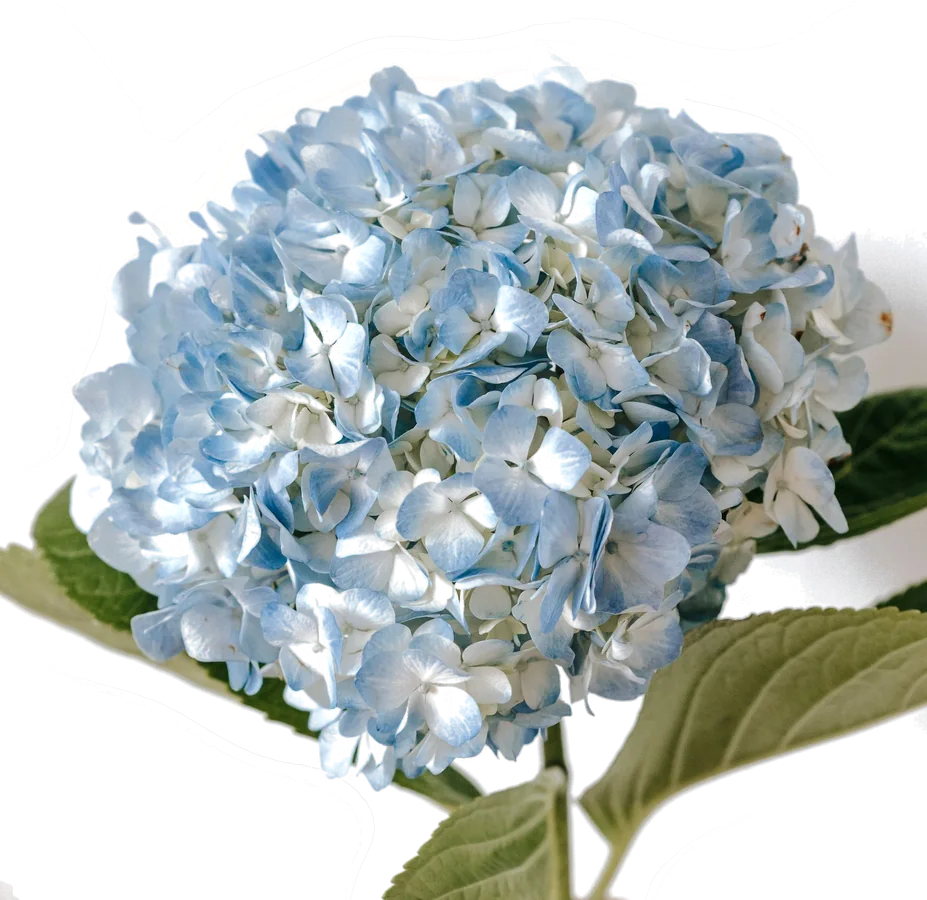
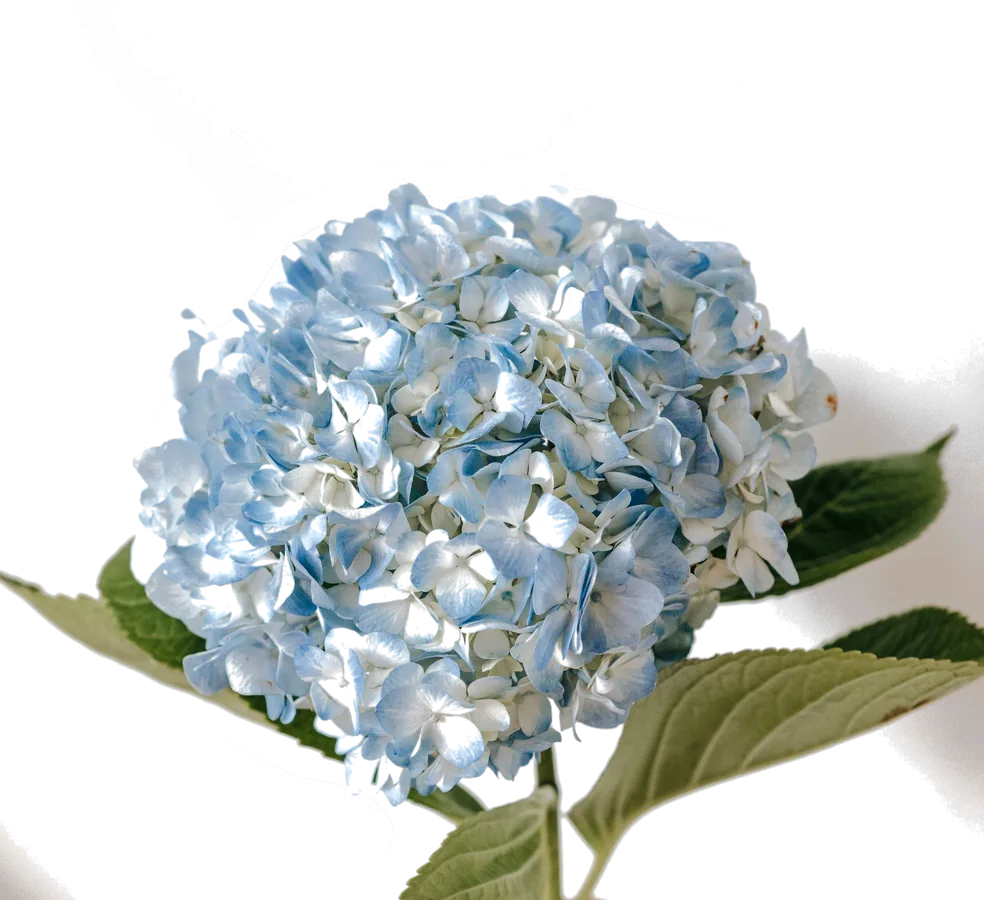
A11y and performance pass: contrast, aria, lazy mask SVG, lighter handwriting font, cleaner stem cut-outs

diff --git a/src/components/home/LetterZoom.tsx b/src/components/home/LetterZoom.tsx
@@ -1,6 +1,6 @@
 "use client";
 
-import { useRef } from "react";
+import { useEffect, useRef, useState } from "react";
 import Image from "next/image";
 import Link from "next/link";
 import { gsap, useGSAP, prefersReducedMotion } from "@/lib/gsap";
@@ -14,6 +14,15 @@ export function LetterZoom({ word, eyebrow, title, text, link, href, image, char
   const root = useRef<HTMLElement>(null);
   const svg = useRef<SVGSVGElement>(null);
   const textEl = useRef<SVGTextElement>(null);
+  // the giant mask text is only mounted near the viewport (keeps it out of the LCP race)
+  const [near, setNear] = useState(false);
+  useEffect(() => {
+    const el = root.current;
+    if (!el) return;
+    const io = new IntersectionObserver(([e]) => e.isIntersecting && (setNear(true), io.disconnect()), { rootMargin: "150% 0px" });
+    io.observe(el);
+    return () => io.disconnect();
+  }, []);
 
   useGSAP(
     () => {
@@ -56,7 +65,7 @@ export function LetterZoom({ word, eyebrow, title, text, link, href, image, char
         .set(s, { opacity: 0 }, 0.6)
         .fromTo(q("[data-story]"), { y: 120, opacity: 0 }, { y: 0, opacity: 1, duration: 0.25, ease: "power2.out" }, 0.66);
     },
-    { scope: root },
+    { scope: root, dependencies: [near] },
   );
 
   return (
@@ -66,6 +75,7 @@ export function LetterZoom({ word, eyebrow, title, text, link, href, image, char
           <Image src={image} alt="" fill sizes="100vw" className="object-cover" />
           <div className="absolute inset-0 bg-ink/15" />
         </div>
+        {near && (
         <svg ref={svg} viewBox="0 0 1600 900" preserveAspectRatio="xMidYMid slice" className="absolute inset-0 h-full w-full will-change-transform" aria-hidden>
           <defs>
             <mask id="dorcol-mask" maskUnits="userSpaceOnUse" x="0" y="0" width="1600" height="900">
@@ -77,6 +87,8 @@ export function LetterZoom({ word, eyebrow, title, text, link, href, image, char
           </defs>
           <rect width="1600" height="900" fill="#17271f" mask="url(#dorcol-mask)" />
         </svg>
+        )}
+        {!near && <div aria-hidden className="absolute inset-0 bg-ink" />}
         <div data-word-caption className="wrap pointer-events-none absolute inset-x-0 top-[calc(var(--header-h)+var(--ribbon-h)+1.5rem)] flex justify-between text-paper/80">
           <p className="t-eyebrow">{eyebrow}</p>
           <p className="t-eyebrow">{caption}</p>

diff --git a/src/components/home/OccasionsTrack.tsx b/src/components/home/OccasionsTrack.tsx
@@ -42,13 +42,13 @@ export function OccasionsTrack({ eyebrow, title, items, cta }: { eyebrow: string
 
   return (
     <section ref={root} className="theme-linen relative overflow-hidden py-20 md:flex md:h-screen md:flex-col md:justify-center md:py-0">
-      <div className="wrap md:absolute md:left-0 md:right-0 md:top-[calc(var(--header-h)+var(--ribbon-h)+2rem)]">
+      <div className="wrap md:pt-[calc(var(--header-h)+var(--ribbon-h))]">
         <p className="t-eyebrow text-accent">{eyebrow}</p>
         <h2 className="t-h2 mt-3">{title}</h2>
       </div>
-      <ul ref={track} className="no-scrollbar mt-10 flex snap-x snap-mandatory gap-4 overflow-x-auto px-[var(--gutter)] md:mt-28 md:gap-6 md:overflow-visible md:pl-[34vw]" data-cursor="drag" data-cursor-label="→">
+      <ul ref={track} className="no-scrollbar mt-10 flex snap-x snap-mandatory gap-4 overflow-x-auto px-[var(--gutter)] md:mt-8 md:gap-6 md:overflow-visible md:pl-[30vw]" data-cursor="drag" data-cursor-label="→">
         {items.map((it, i) => (
-          <li key={it.id} className="w-[74vw] shrink-0 snap-center md:w-[30vw]" style={{ marginTop: i % 2 ? "3.5rem" : 0 }}>
+          <li key={it.id} className="w-[74vw] shrink-0 snap-center md:w-[min(24vw,calc((100svh-20rem)*0.75))]" style={{ marginTop: i % 2 ? "2.5rem" : 0 }}>
             <Link href={it.href} className="group block">
               <div className="frame relative aspect-[3/4] rounded-[1.75rem]">
                 <div data-occ-img className="absolute -inset-x-[10%] inset-y-0">

diff --git a/src/components/shop/CardMessage.tsx b/src/components/shop/CardMessage.tsx
@@ -13,9 +13,11 @@ export function PaperCard({ text, from, className, placeholder }: { text: string
   return (
     <div className={clsx("relative rounded-[6px] bg-[#fbf8f1] px-5 pb-5 pt-6 text-ink shadow-[0_14px_30px_-12px_rgba(15,27,21,0.35)]", className)}>
       <span aria-hidden className="absolute left-1/2 top-2 h-1.5 w-1.5 -translate-x-1/2 rounded-full bg-sand" />
-      <p className={clsx("t-hand min-h-[3.2em] whitespace-pre-wrap break-words text-[1.45rem]", !text && "text-ink/35")}>{text || placeholder}</p>
+      <p className={clsx("t-hand min-h-[3.2em] whitespace-pre-wrap break-words text-[1.45rem]", !text && "text-[#5f6862]")}>{text || placeholder}</p>
       <p className="t-hand mt-2 text-right text-[1.25rem] text-poppy-ink">{from ? `— ${from}` : ""}</p>
-      <span aria-hidden className="absolute bottom-2 left-4 font-serif text-[0.65rem] tracking-[0.2em] text-ink/30">RUTA</span>
+      <svg aria-hidden viewBox="0 0 32 40" className="absolute bottom-2 left-4 h-4 w-auto text-ink/25">
+        <path d="M16 12 C 12.6 9.4, 12.4 4.2, 16 2.2 C 19.6 4.2, 19.4 9.4, 16 12 Z" fill="currentColor" />
+      </svg>
     </div>
   );
 }

diff --git a/src/components/layout/Footer.tsx b/src/components/layout/Footer.tsx
@@ -123,9 +123,11 @@ export function Footer({ locale }: { locale: Locale }) {
       </div>
 
       <div className="wrap relative mt-16">
-        <p aria-hidden className="pointer-events-none select-none font-serif text-[30vw] leading-[0.78] tracking-[-0.05em] text-paper/[0.07] md:text-[23vw]">
-          Ruta
-        </p>
+        <svg aria-hidden viewBox="0 0 1000 300" className="pointer-events-none w-full select-none">
+          <text x="0" y="250" fontSize="330" letterSpacing="-16" fill="currentColor" opacity="0.07" style={{ fontFamily: "var(--font-gloock), Georgia, serif" }}>
+            Ruta
+          </text>
+        </svg>
         <Mark className="absolute right-[var(--gutter)] top-[8%] h-[16vw] w-auto text-paper/[0.08]" accent="color-mix(in oklab, var(--poppy) 40%, transparent)" />
       </div>
 

diff --git a/src/content/zones.ts b/src/content/zones.ts
@@ -21,7 +21,7 @@ export const zones: Zone[] = [
     id: "stari-grad", name: "Stari grad", central: true, price: 0,
     hoods: { sr: "Dorćol, Kosančićev venac, Skadarlija", en: "Dorćol, Kosančićev venac, Skadarlija" },
     eta: { sr: "za 90 min", en: "within 90 min" },
-    path: "M300 150 L352 128 L384 162 L372 214 L326 226 L296 196 Z", label: [336, 178],
+    path: "M300 150 L352 128 L384 162 L372 214 L326 226 L296 196 Z", label: [340, 204],
   },
   {
     id: "vracar", name: "Vračar", central: true, price: 350,
@@ -81,4 +81,4 @@ export const rivers = {
 
 export const zoneById = (id: string) => zones.find((z) => z.id === id);
 
-export const studioPin: [number, number] = [334, 166];
+export const studioPin: [number, number] = [330, 162];

diff --git a/src/components/home/DoorsParallax.tsx b/src/components/home/DoorsParallax.tsx
@@ -23,7 +23,7 @@ export function DoorsParallax({ eyebrow, title, columns }: { eyebrow: string; ti
   return (
     <section ref={root} className="theme-blush relative overflow-hidden py-24 md:py-32">
       <div className="pointer-events-none absolute inset-0 z-10 grid place-items-center">
-        <div data-doors-title className="text-center">
+        <div data-doors-title className="rounded-[3rem] bg-[radial-gradient(closest-side,var(--petal)_55%,transparent)] px-10 py-12 text-center md:px-24">
           <p className="t-eyebrow text-accent">{eyebrow}</p>
           <h2 className="mt-3 font-serif text-[clamp(3rem,9vw,9rem)] leading-[0.9] tracking-[-0.03em] text-ink [text-shadow:0_2px_40px_var(--petal)]">{title}</h2>
         </div>

diff --git a/src/views/ShopView.tsx b/src/views/ShopView.tsx
@@ -19,7 +19,8 @@ export function Marquee({ items, tone = "ink" }: { items: string[]; tone?: "ink"
   const row = [...items, ...items, ...items];
   return (
     <div className={tone === "ink" ? "bg-ink text-paper" : "bg-poppy-ink text-white"}>
-      <div className="marquee-wrap overflow-hidden py-4" aria-label={items.join(" · ")}>
+      <p className="sr-only">{items.join(" · ")}</p>
+      <div className="marquee-wrap overflow-hidden py-4">
         <ul className="marquee items-center" style={{ ["--marquee-d" as string]: "40s" }} aria-hidden>
           {[...row, ...row].map((t, i) => (
             <li key={i} className="flex shrink-0 items-center gap-6 pr-6 font-serif text-xl md:text-2xl">

diff --git a/src/components/ui/Reveal.tsx b/src/components/ui/Reveal.tsx
@@ -113,7 +113,7 @@ export function ScrubWords({ text, className, as: Tag = "p", accent = [] }: { te
       const el = ref.current;
       if (!el || prefersReducedMotion()) return;
       const words = el.querySelectorAll<HTMLElement>("[data-w]");
-      gsap.fromTo(words, { opacity: 0.22 }, { opacity: 1, ease: "none", stagger: 0.1, scrollTrigger: { trigger: el, start: "top 82%", end: "bottom 45%", scrub: 0.6 } });
+      gsap.fromTo(words, { opacity: 0.55 }, { opacity: 1, ease: "none", stagger: 0.1, scrollTrigger: { trigger: el, start: "top 82%", end: "bottom 45%", scrub: 0.6 } });
     },
     { scope: ref },
   );

diff --git a/src/components/sections/ReviewsWall.tsx b/src/components/sections/ReviewsWall.tsx
@@ -4,7 +4,7 @@ import { formatDate } from "@/lib/format";
 
 function Stars({ n, size = 14 }: { n: number; size?: number }) {
   return (
-    <span className="inline-flex gap-0.5" aria-label={`${n}/5`}>
+    <span className="inline-flex gap-0.5" role="img" aria-label={`${n}/5`}>
       {Array.from({ length: 5 }, (_, i) => (
         <svg key={i} width={size} height={size} viewBox="0 0 20 20" aria-hidden>
           <path d="M10 1.5l2.6 5.4 5.9.8-4.3 4.1 1 5.9L10 15l-5.2 2.7 1-5.9L1.5 7.7l5.9-.8Z" fill={i < n ? "#f4b400" : "var(--sand)"} />

diff --git a/src/components/builder/BouquetStage.tsx b/src/components/builder/BouquetStage.tsx
@@ -20,7 +20,7 @@ export function fan(items: StagedStem[]) {
     const spread = s.kind === "green" ? 34 : 24;
     const centerBias = s.head > 1.2 ? 0.25 : 1;
     const angle = (t - 0.5) * 2 * spread * centerBias + (i % 2 ? 3 : -3);
-    const height = s.kind === "green" ? 78 : 70 - (s.head - 1) * 14 + (i % 3) * 3;
+    const height = s.kind === "green" ? 64 : 56 - (s.head - 1) * 22 + (i % 3) * 3;
     return { ...s, angle, height, z: s.kind === "green" ? 1 + i : 10 + Math.round(s.head * 10) + (i % 3) };
   });
 }

diff --git a/src/lib/fonts.ts b/src/lib/fonts.ts
@@ -22,6 +22,7 @@ export const albert = Albert_Sans({
 });
 
 export const caveat = Caveat({
+  weight: "500",
   subsets: ["latin"],
   variable: "--font-caveat",
   display: "swap",

diff --git a/scripts/cut-stems.py b/scripts/cut-stems.py
@@ -16,7 +16,7 @@ OUT = os.path.join(HERE, "..", "public", "images", "builder")
 CUTS = {
     "sunflower": (6913745, (600, 650, 1650, 1980)),
     "rose-red": (6913742, (850, 950, 1650, 2100)),
-    "hydrangea": (6913761, (300, 650, 2000, 2300)),
+    "hydrangea": (6913761, (150, 380, 2250, 2300)),
     "carnation-pink": (6913164, (600, 1100, 1650, 3300)),
     "rose-white": (6913166, (0, 1700, 800, 3550)),
     "gypsophila": (6913166, (1650, 1400, 2400, 2500)),
@@ -40,7 +40,7 @@ def key(im):
     dist = np.linalg.norm(a - local_bg, axis=2)
     lum_drop = np.clip((local_bg.mean(axis=2) - a.mean(axis=2)), 0, None)
     d = np.maximum(dist, lum_drop * 1.4)
-    alpha = np.clip((d - 15) / 40, 0, 1)
+    alpha = np.clip((d - 24) / 34, 0, 1)
     # un-mix wall colour: c = a*fg + (1-a)*bg  ->  fg = (c - (1-a)bg)/a
     al = alpha[..., None]
     fg = np.where(al > 0.02, (a - (1 - al) * local_bg) / np.maximum(al, 0.02), 0)
